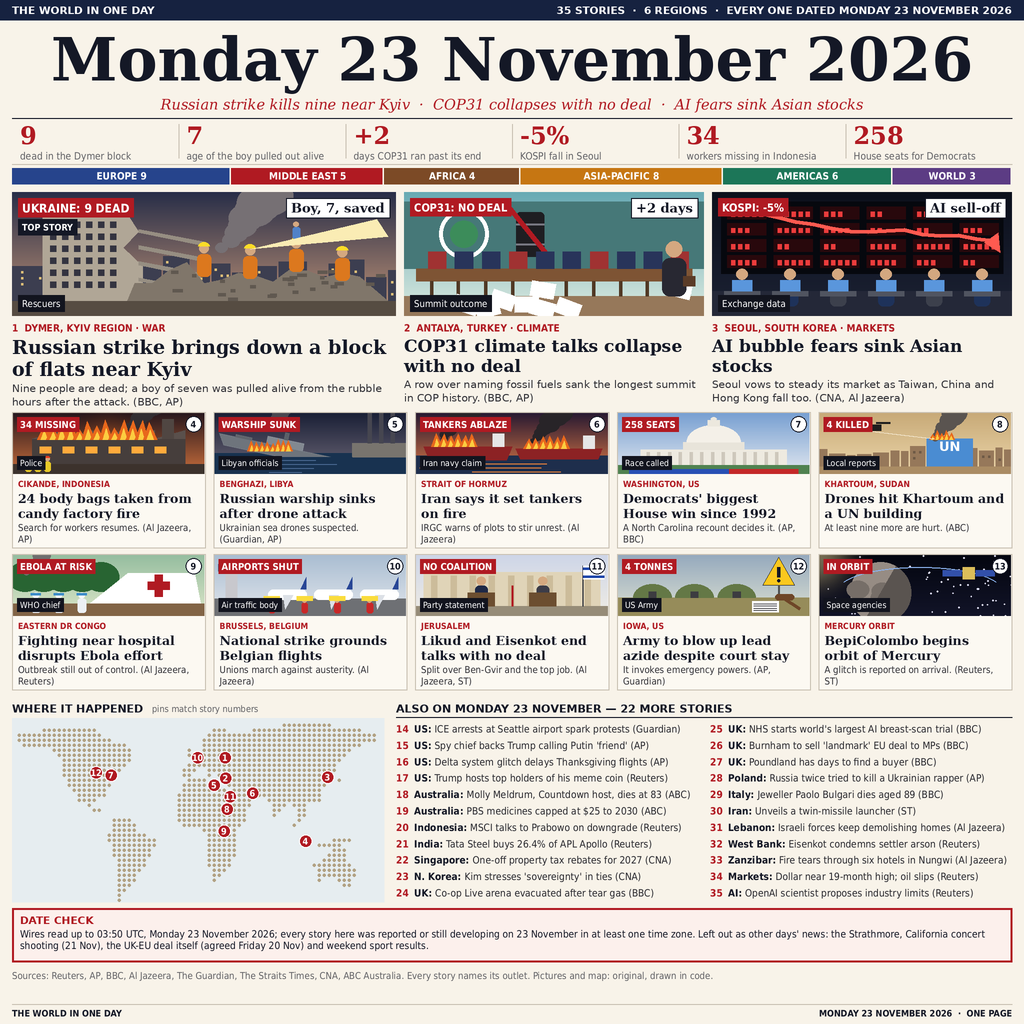
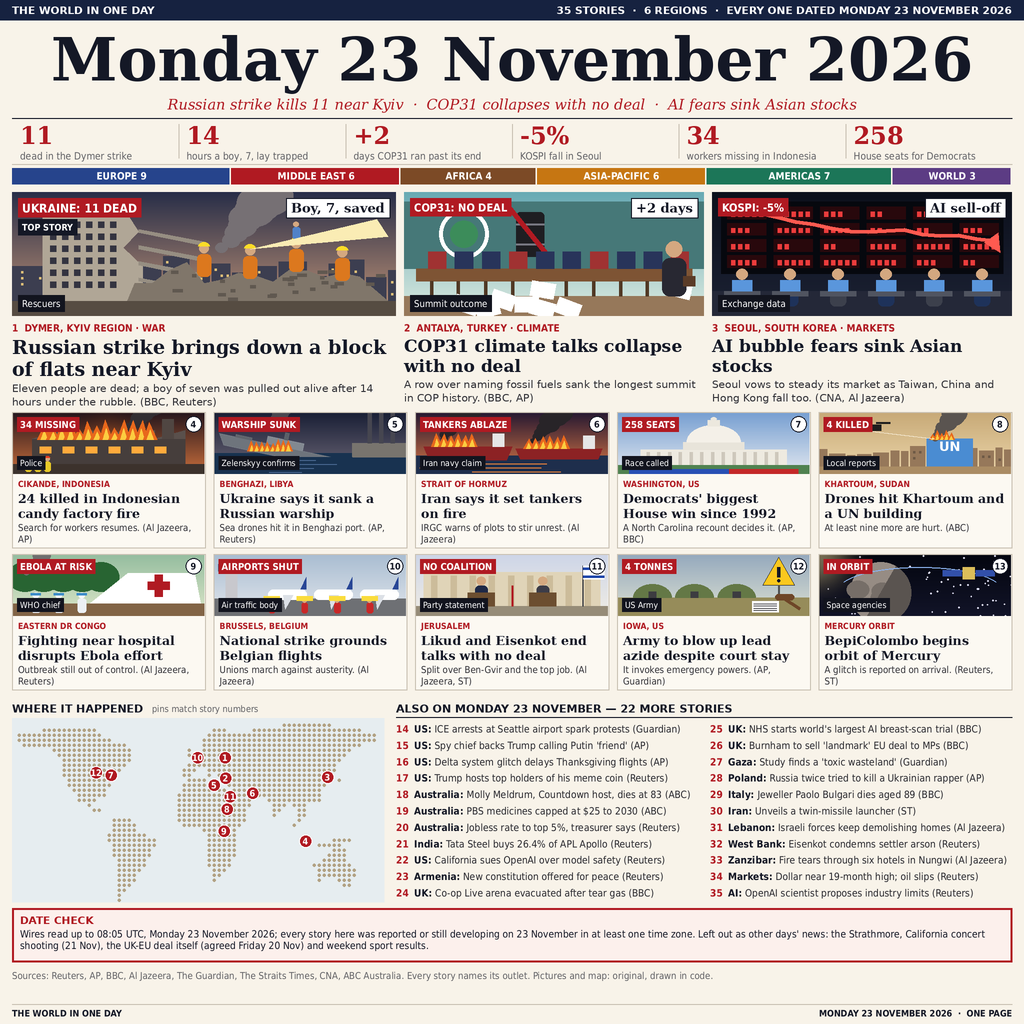
Update to 08:05 UTC: Dymer toll 11, Zelenskyy confirms Libya strike, new items

diff --git a/tools/build.py b/tools/build.py
@@ -47,11 +47,11 @@ DAY = "Monday 23 November 2026"
 # ------------------------------------------------------------------ data
 LEADS = [
     dict(region="Europe", place="DYMER, KYIV REGION", topic="WAR",
-         tag="UKRAINE: 9 DEAD", fig="Boy, 7, saved", chip="Rescuers",
+         tag="UKRAINE: 11 DEAD", fig="Boy, 7, saved", chip="Rescuers",
          head="Russian strike brings down a block of flats near Kyiv",
-         body="Nine people are dead; a boy of seven was pulled alive from "
-              "the rubble hours after the attack.",
-         outlet="BBC, AP", lat=50.8, lon=30.3, scene="rubble"),
+         body="Eleven people are dead; a boy of seven was pulled out alive "
+              "after 14 hours under the rubble.",
+         outlet="BBC, Reuters", lat=50.8, lon=30.3, scene="rubble"),
     dict(region="Europe", place="ANTALYA, TURKEY", topic="CLIMATE",
          tag="COP31: NO DEAL", fig="+2 days", chip="Summit outcome",
          head="COP31 climate talks collapse with no deal",
@@ -68,12 +68,12 @@ LEADS = [
 
 CARDS = [
     dict(region="Asia-Pacific", place="CIKANDE, INDONESIA", tag="34 MISSING",
-         chip="Police", head="24 body bags taken from candy factory fire",
+         chip="Police", head="24 killed in Indonesian candy factory fire",
          body="Search for workers resumes.", outlet="Al Jazeera, AP",
          lat=-6.2, lon=106.3, scene="factory"),
     dict(region="Africa", place="BENGHAZI, LIBYA", tag="WARSHIP SUNK",
-         chip="Libyan officials", head="Russian warship sinks after drone attack",
-         body="Ukrainian sea drones suspected.", outlet="Guardian, AP",
+         chip="Zelenskyy confirms", head="Ukraine says it sank a Russian warship",
+         body="Sea drones hit it in Benghazi port.", outlet="AP, Reuters",
          lat=32.1, lon=20.1, scene="warship"),
     dict(region="Middle East", place="STRAIT OF HORMUZ", tag="TANKERS ABLAZE",
          chip="Iran navy claim", head="Iran says it set tankers on fire",
@@ -116,14 +116,14 @@ ALSO = [
     ("Americas", "US", "Trump hosts top holders of his meme coin", "Reuters"),
     ("Asia-Pacific", "Australia", "Molly Meldrum, Countdown host, dies at 83", "ABC"),
     ("Asia-Pacific", "Australia", "PBS medicines capped at $25 to 2030", "ABC"),
-    ("Asia-Pacific", "Indonesia", "MSCI talks to Prabowo on downgrade", "Reuters"),
+    ("Asia-Pacific", "Australia", "Jobless rate to top 5%, treasurer says", "Reuters"),
     ("Asia-Pacific", "India", "Tata Steel buys 26.4% of APL Apollo", "Reuters"),
-    ("Asia-Pacific", "Singapore", "One-off property tax rebates for 2027", "CNA"),
-    ("Asia-Pacific", "N. Korea", "Kim stresses 'sovereignty' in ties", "CNA"),
+    ("Americas", "US", "California sues OpenAI over model safety", "Reuters"),
+    ("Europe", "Armenia", "New constitution offered for peace", "Reuters"),
     ("Europe", "UK", "Co-op Live arena evacuated after tear gas", "BBC"),
     ("Europe", "UK", "NHS starts world's largest AI breast-scan trial", "BBC"),
     ("Europe", "UK", "Burnham to sell 'landmark' EU deal to MPs", "BBC"),
-    ("Europe", "UK", "Poundland has days to find a buyer", "BBC"),
+    ("Middle East", "Gaza", "Study finds a 'toxic wasteland'", "Guardian"),
     ("Europe", "Poland", "Russia twice tried to kill a Ukrainian rapper", "AP"),
     ("Europe", "Italy", "Jeweller Paolo Bulgari dies aged 89", "BBC"),
     ("Middle East", "Iran", "Unveils a twin-missile launcher", "ST"),
@@ -135,8 +135,8 @@ ALSO = [
 ]
 
 NUMBERS = [
-    ("9", "dead in the Dymer block"),
-    ("7", "age of the boy pulled out alive"),
+    ("11", "dead in the Dymer strike"),
+    ("14", "hours a boy, 7, lay trapped"),
     ("+2", "days COP31 ran past its end"),
     ("-5%", "KOSPI fall in Seoul"),
     ("34", "workers missing in Indonesia"),
@@ -652,7 +652,7 @@ def build():
         F("sansb", 10.5), WHITE, anchor="ra")
 
     put(d, (W / 2, 24), DAY, F("serif", 60), INK, anchor="ma")
-    put(d, (W / 2, 96), "Russian strike kills nine near Kyiv  ·  COP31 collapses with no deal  ·  "
+    put(d, (W / 2, 96), "Russian strike kills 11 near Kyiv  ·  COP31 collapses with no deal  ·  "
         "AI fears sink Asian stocks", F("serifi", 14.5), RED, anchor="ma")
     d.line(rect([M, 118, W - M, 118]), fill=INK, width=K)
 
@@ -742,7 +742,7 @@ def build():
     top = 908
     d.rectangle(rect([M, top, W - M, top + 54]), outline=RED, width=2 * K, fill=(252, 240, 236))
     put(d, (M + 8, top + 6), "DATE CHECK", F("sansb", 10.5), RED)
-    dc = ("Wires read up to 03:50 UTC, Monday 23 November 2026; every story here was reported or still developing "
+    dc = ("Wires read up to 08:05 UTC, Monday 23 November 2026; every story here was reported or still developing "
           "on 23 November in at least one time zone. Left out as other days' news: the Strathmore, California "
           "concert shooting (21 Nov), the UK-EU deal itself (agreed Friday 20 Nov) and weekend sport results.")
     block(d, M + 8, top + 20, dc, F("cond", 10), W - 2 * M - 16, 3, 11.5, INK)
